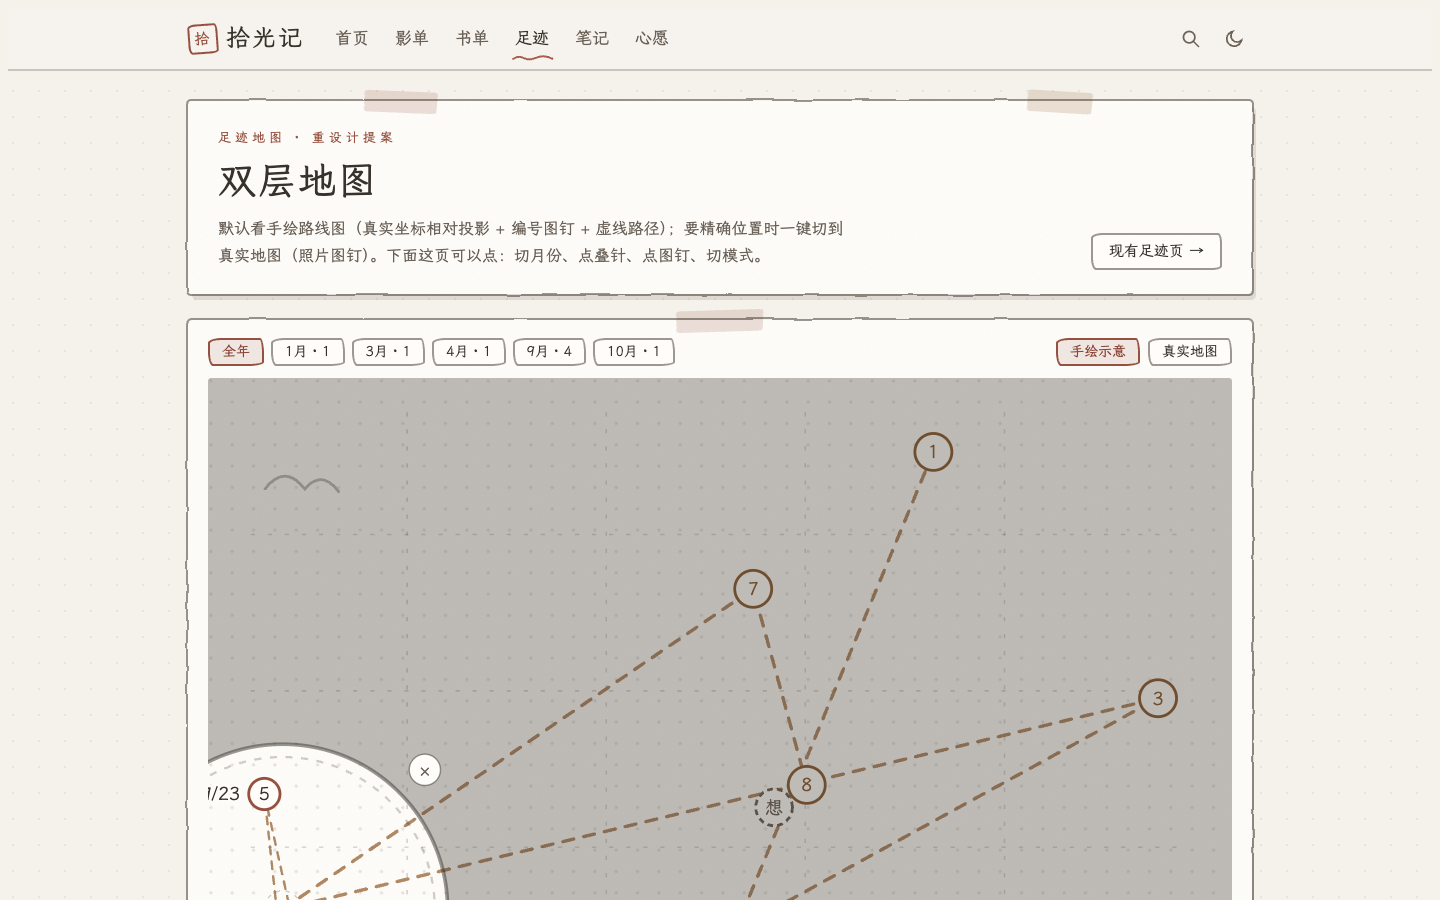
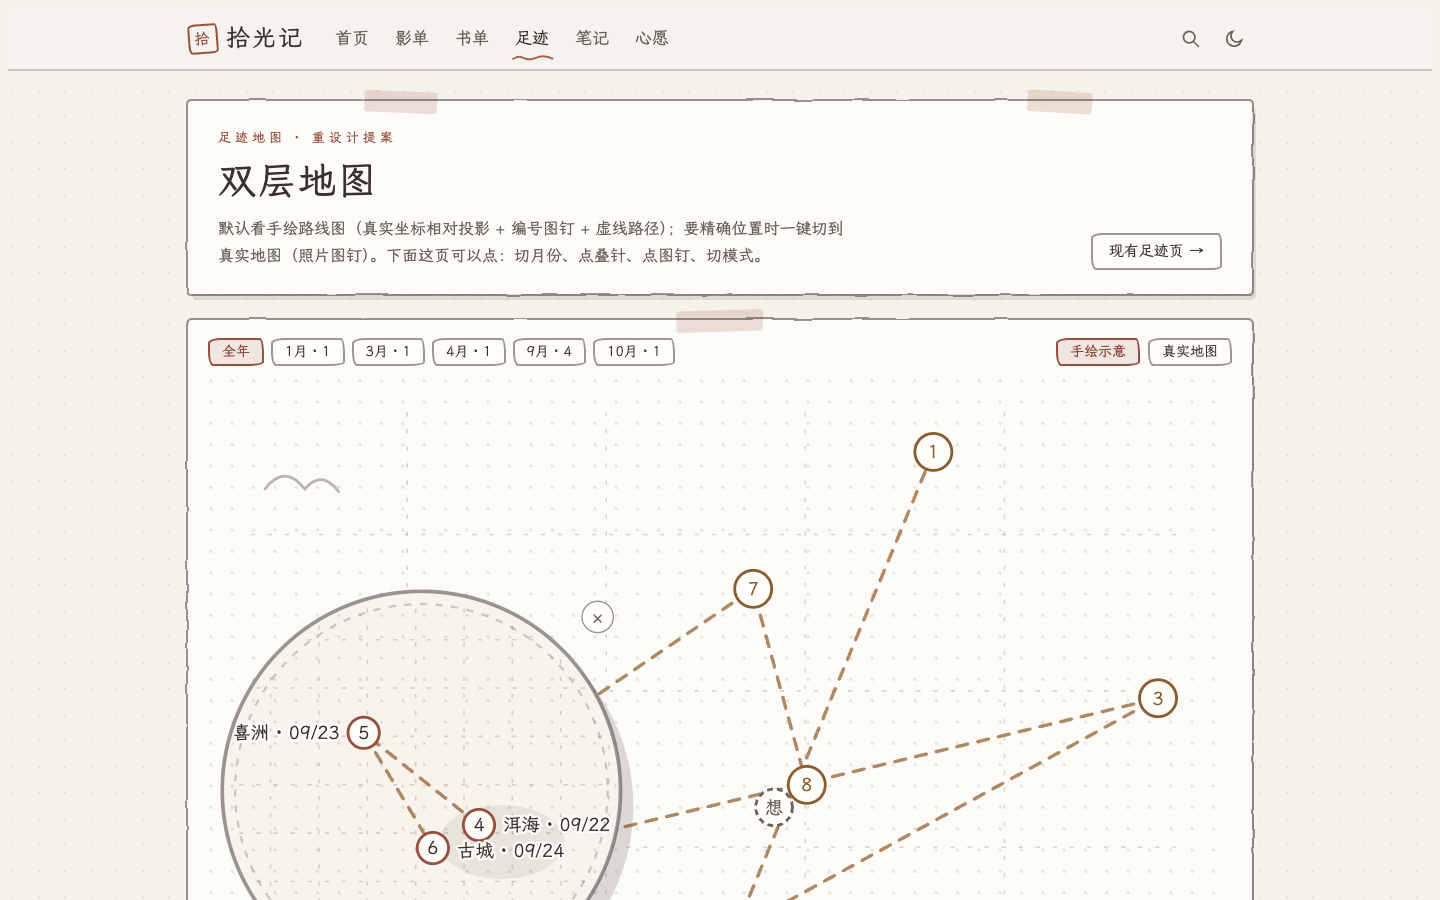
docs(handdrawn): 放大镜改为玻璃镜片压叠 + 镜内局部小地图
- 原图一切不动；一枚更大的玻璃镜片压在叠针上，不透明底 + 投影盖住那一坨
- 镜内是一张新的局部手绘小地图：视口 = 簇内点经纬度包围盒（留 32% 余量），
  两轴撑满内接方形的范围视图，三点自然展开；标注实际跨度 km 与「非等比」
- 镜片带手柄与镜环；被画布边界推离簇时补虚线指引；点镜外或 × 复原
- 点名含「海/湖/江/河」的点旁画水色装饰

diff --git a/docs/design/mockups/handdrawn-0.0.6/travel-map.html b/docs/design/mockups/handdrawn-0.0.6/travel-map.html
@@ -66,7 +66,10 @@
   paint-order: stroke; stroke: var(--hd-paper); stroke-width: 3.5px; cursor: pointer;
 }
 .page-mapdoc .lens-label:hover { fill: var(--hd-red) }
-.page-mapdoc .lens-scale { fill: var(--hd-ink-faint); font-size: 12px; font-family: var(--hd-hand) }
+.page-mapdoc .lens-scale { fill: var(--hd-ink-faint); font-size: 12.5px; font-family: var(--hd-hand) }
+.page-mapdoc .lens-handle { stroke: var(--hd-line); stroke-width: 8; stroke-linecap: round }
+.page-mapdoc .lens-handle-in { stroke: var(--hd-paper); stroke-width: 2.6; stroke-linecap: round }
+.page-mapdoc .lens-leader { stroke: var(--hd-line-soft); stroke-width: 1.8; stroke-dasharray: 4 5; fill: none }
 
 /* 真实地图模式（伪高德：浅灰路网 + 照片图钉） */
 .page-mapdoc .real-map {
@@ -249,7 +252,7 @@
         <tr><td class="k">投影</td><td>等距圆柱<b>相对投影</b>：把全部足迹的经纬度包围盒映射到纸面（国内外地点通吃），保持方位关系；页角常驻「示意位置 · 非比例」。投影框按<b>全部足迹</b>计算，月份筛选不改变它。</td></tr>
         <tr><td class="k">防重叠 · 位移</td><td>图钉最小间距 52px；力导向互斥微位移，单针位移上限 26px——只「挪半步」，方位感不破坏。</td></tr>
         <tr><td class="k">防重叠 · 聚合</td><td>位移后仍 &lt;30px（同城多点）→ 合成<b>叠针</b>（三针叠放 + 数量角标），停在真实位置；不去伪造间隔。</td></tr>
-        <tr><td class="k">放大镜</td><td>点叠针 → 叠针隐藏，半径 116px 圆窗内<b>把底图以簇心放大 K 倍</b>（同一张纸、比例尺真的变大），簇内点按真实相对位置展开；K 自适应（6–34×）；均匀倍率仍展不开 → 保留方位角的径向归一展开；同坐标 → 纸片列表兜底。</td></tr>
+        <tr><td class="k">放大镜</td><td>点叠针 → 一枚更大的玻璃镜片<b>压在那一坨上</b>：原图一切不动，镜片不透明底盖住叠针，镜内是一张<b>新的局部手绘小地图</b>（视口 = 簇内点经纬度包围盒，留 32% 余量，窄轴拉伸撑满内接方形的范围视图），三点自然展开，标注实际跨度 km 与「非等比」；镜片被画布边界推离簇时补一条虚线指引；同坐标 → 纸片列表兜底；点镜外或 × 复原。</td></tr>
         <tr><td class="k">月份口径</td><td>按 finishDate 归月；胶囊只列<b>有足迹的月份</b>并带数量（空月不出现）；默认「全年」；切换只重画路径与图钉。</td></tr>
         <tr><td class="k">路径</td><td>选中范围内按日期升序串联成虚线路径；仅 1 个点不画线；<b>想去不进路径</b>。</td></tr>
         <tr><td class="k">想去</td><td>虚线图钉常显，不受月份筛选影响；点开是想去态详情（可定日子）。</td></tr>
@@ -437,55 +440,74 @@ function drawHand() {
   });
 }
 
-/* 放大镜：真放大——叠针隐藏，圆窗内把底图以簇心放大 K 倍（<use> + scale + clip），
-   簇内点按真实相对位置展开；K 自适应（最小间距不达标时退化为「方位归一」径向展开） */
+/* 放大镜：一枚大玻璃镜片压在叠针上——原图一切不动；镜片不透明底盖住那一坨，
+   里面是一张新的局部手绘小地图（视口 = 簇内点的经纬度包围盒），三点自然展开 */
 function openLens(G, cx, cy) {
-  var R = 116;
+  var R = 140;
   var members = G.items.slice().sort(function (a, b) { return (a.d || '').localeCompare(b.d || ''); });
-  var maxD = 1;
-  members.forEach(function (p) { maxD = Math.max(maxD, Math.hypot(p.x - cx, p.y - cy)); });
-  var K = Math.min(34, Math.max(6, (R - 34) / maxD));
-  /* 均匀倍率下最小点对仍 <30px → 方位归一：保留真实方位角，径向归一到环上 */
-  var radial = false;
-  for (var i = 0; i < members.length && !radial; i++) {
-    for (var j = i + 1; j < members.length; j++) {
-      if (Math.hypot(members[i].x - members[j].x, members[i].y - members[j].y) * K < 24) { radial = true; break; }
-    }
+
+  /* 玻璃中心：尽量压住簇，但不许出了地图画布 */
+  var gx = Math.min(Math.max(cx, R + 10), VB.w - R - 10);
+  var gy = Math.min(Math.max(cy, R + 10), VB.h - R - 10);
+
+  /* 局部地图视口 = 簇内经纬度包围盒（留 32% 余量），两轴各自撑满圆的内接方形
+     （范围视图：窄轴会拉伸，标注「非等比」与实际范围公里数） */
+  var lngs = members.map(function (p) { return p.lng; }), lats = members.map(function (p) { return p.lat; });
+  var bx0 = Math.min.apply(null, lngs), bx1 = Math.max.apply(null, lngs);
+  var by0 = Math.min.apply(null, lats), by1 = Math.max.apply(null, lats);
+  var bcx = (bx0 + bx1) / 2, bcy = (by0 + by1) / 2;
+  var bw = Math.max(bx1 - bx0, 0.008) * 1.64, bh = Math.max(by1 - by0, 0.008) * 1.64;
+  var HALF = (R - 46) * 0.707; /* 内接方形半边 */
+  function localXY(p) {
+    return { x: gx + (p.lng - bcx) / (bw / 2) * HALF, y: gy - (p.lat - bcy) / (bh / 2) * HALF };
   }
-  function lensXY(p) {
-    if (!radial) return { x: cx + (p.x - cx) * K, y: cy + (p.y - cy) * K };
-    var dx = p.x - cx, dy = p.y - cy, d = Math.hypot(dx, dy) || .001;
-    var r = (R - 46) * (0.45 + 0.55 * d / maxD);
-    return { x: cx + dx / d * r, y: cy + dy / d * r };
-  }
+
+  /* 实际范围（km）：纬度 1°≈111km，经度 1°≈111×cos(纬度) */
+  var kmW = (bx1 - bx0) * 111 * Math.cos(bcy * Math.PI / 180);
+  var kmH = (by1 - by0) * 111;
+  var km = Math.round(Math.max(kmW, kmH, 0.5));
 
   var lens = el('g', {}, handMap);
-  var hole = 'M0 0 H' + VB.w + ' V' + VB.h + ' H0 Z M' + cx + ' ' + cy + ' m-' + R + ' 0 a' + R + ' ' + R + ' 0 1 0 ' + R * 2 + ' 0 a' + R + ' ' + R + ' 0 1 0 -' + R * 2 + ' 0 Z';
-  el('path', { d: hole, fill: 'rgba(55,50,44,.32)', 'fill-rule': 'evenodd' }, lens);
 
-  /* 圆窗内：同一张底图放大 K 倍（radial 兜底时不放大底图，只重排点） */
-  var cp = el('clipPath', { id: 'md-lensclip' }, window._mdDefs);
-  el('circle', { cx: cx, cy: cy, r: R }, cp);
-  var clipped = el('g', { 'clip-path': 'url(#md-lensclip)' }, lens);
-  if (!radial) {
-    var zoom = el('g', { transform: 'translate(' + cx + ' ' + cy + ') scale(' + K + ') translate(-' + cx + ' -' + cy + ')' }, clipped);
-    el('use', { href: '#md-basemap' }, zoom);
-    if (members.length > 1) {
-      el('path', { class: 'map-route', d: 'M' + members.map(function (p) { return p.x + ',' + p.y; }).join(' L'), 'vector-effect': 'non-scaling-stroke' }, zoom);
-    }
-  } else {
-    el('use', { href: '#md-basemap' }, clipped);
+  /* 若玻璃被画布边界推离了簇，画一条虚线把两者连起来 */
+  if (Math.hypot(gx - cx, gy - cy) > 30) {
+    var a = Math.atan2(cy - gy, cx - gx);
+    el('path', { class: 'lens-leader', d: 'M' + (gx + Math.cos(a) * (R + 4)) + ' ' + (gy + Math.sin(a) * (R + 4)) + ' L' + cx + ' ' + cy }, lens);
   }
 
-  /* 簇内点：按展开后的坐标摆编号针（不随底图缩放，保持针的大小可读） */
+  /* 投影 + 影子 + 不透明玻璃底：把那一坨盖住 */
+  el('circle', { cx: gx + 9, cy: gy + 11, r: R, fill: 'rgba(40,34,28,.16)' }, lens);
+  el('circle', { cx: gx, cy: gy, r: R, fill: 'var(--hd-paper-2)' }, lens);
+
+  /* 镜内：新的局部手绘小地图 */
+  var clipId = 'md-lens' + Date.now();
+  var cp = el('clipPath', { id: clipId }, window._mdDefs);
+  el('circle', { cx: gx, cy: gy, r: R - 3 }, cp);
+  var con = el('g', { 'clip-path': 'url(#' + clipId + ')' }, lens);
+  el('rect', { x: gx - R, y: gy - R, width: R * 2, height: R * 2, fill: 'url(#mdots)', 'fill-opacity': .55 }, con);
+  var grid = el('g', { class: 'map-grid' }, con);
+  for (var gx2 = gx - R + 34; gx2 < gx + R; gx2 += 34) { el('path', { d: 'M' + gx2 + ' ' + (gy - R) + ' V' + (gy + R) }, grid); }
+  for (var gy2 = gy - R + 34; gy2 < gy + R; gy2 += 34) { el('path', { d: 'M' + (gx - R) + ' ' + gy2 + ' H' + (gx + R) }, grid); }
+  /* 装饰：点名带「海/湖/江/河」的点旁画水，角上画山 */
+  members.forEach(function (p) {
+    if (!/[海湖江河]/.test(p.t)) return;
+    var pos = localXY(p);
+    el('ellipse', { cx: pos.x + 16, cy: pos.y + 12, rx: 44, ry: 26, fill: 'var(--hd-moss-soft)', opacity: .8 }, con);
+  });
+  el('path', { class: 'deco', d: 'M' + (gx - R + 26) + ' ' + (gy + R - 40) + ' q12 -16 24 0 q10 -12 20 2' }, con);
+  /* 镜内路径：按日期串联 */
+  if (members.length > 1) {
+    el('path', { class: 'map-route', d: 'M' + members.map(function (p) { var q = localXY(p); return q.x + ',' + q.y; }).join(' L') }, con);
+  }
+
+  /* 编号针 + 标签（同侧纵向避让） */
   var order = {};
   PLACES.filter(function (p) { return !p.wish; }).sort(function (a, b) { return (a.d || '').localeCompare(b.d || ''); })
     .forEach(function (p, i) { order[p.id] = i + 1; });
   var labeled = members.map(function (p) {
-    var pos = lensXY(p);
-    return { p: p, x: pos.x, y: pos.y, side: pos.x < cx ? -1 : 1 };
+    var pos = localXY(p);
+    return { p: p, x: pos.x, y: pos.y, side: pos.x < gx ? -1 : 1 };
   });
-  /* 同侧标签纵向避让：按 y 排序后推开 ≥18px */
   [-1, 1].forEach(function (side) {
     var col = labeled.filter(function (L) { return L.side === side; }).sort(function (a, b) { return a.y - b.y; });
     col.forEach(function (L, i) {
@@ -493,30 +515,34 @@ function openLens(G, cx, cy) {
     });
   });
   labeled.forEach(function (L) {
-    var g = el('g', { class: 'lens-pin', transform: 'translate(' + L.x + ',' + L.y + ')' }, lens);
+    var g = el('g', { class: 'lens-pin', transform: 'translate(' + L.x + ',' + L.y + ')' }, con);
     el('circle', { r: 11 }, g);
     var t = el('text', { y: 4, 'text-anchor': 'middle' }, g);
     t.textContent = order[L.p.id];
-    var lb = el('text', { class: 'lens-label', x: L.x + 17 * L.side, y: (L.ly === undefined ? L.y : L.ly) + 4.5, 'text-anchor': L.side < 0 ? 'end' : 'start' }, lens);
+    var lb = el('text', { class: 'lens-label', x: L.x + 17 * L.side, y: L.ly + 4.5, 'text-anchor': L.side < 0 ? 'end' : 'start' }, con);
     lb.textContent = L.p.t + ' · ' + (L.p.d || '').slice(5).replace('-', '/');
     function open(e) { e.stopPropagation(); openDrawer(L.p); }
     g.addEventListener('click', open); lb.addEventListener('click', open);
   });
 
-  /* 原来那一坨的脚印 + 倍率标注 */
-  el('circle', { cx: cx, cy: cy, r: 13, fill: 'none', stroke: 'var(--hd-line-soft)', 'stroke-dasharray': '3 4' }, lens);
-  var sc = el('text', { class: 'lens-scale', x: cx, y: cy + (R - 18), 'text-anchor': 'middle' }, lens);
-  sc.textContent = radial ? '方位展开 · 距离归一' : '× ' + Math.round(K) + ' 放大';
-
-  el('circle', { class: 'lens-frame', cx: cx, cy: cy, r: R }, lens);
-  el('circle', { class: 'lens-frame2', cx: cx, cy: cy, r: R - 9 }, lens);
-  var close = el('g', { transform: 'translate(' + (cx + R - 16) + ',' + (cy - R + 18) + ')', style: 'cursor:pointer' }, lens);
+  /* 镜环 + 手柄 + 标注 + 关闭 */
+  el('circle', { class: 'lens-frame', cx: gx, cy: gy, r: R }, lens);
+  el('circle', { class: 'lens-frame2', cx: gx, cy: gy, r: R - 9 }, lens);
+  var ha = 0.66;
+  el('path', { class: 'lens-handle', d: 'M' + (gx + Math.cos(ha) * (R + 2)) + ' ' + (gy + Math.sin(ha) * (R + 2)) + ' L' + (gx + Math.cos(ha) * (R + 58)) + ' ' + (gy + Math.sin(ha) * (R + 58)) }, lens);
+  el('path', { class: 'lens-handle-in', d: 'M' + (gx + Math.cos(ha) * (R + 6)) + ' ' + (gy + Math.sin(ha) * (R + 6)) + ' L' + (gx + Math.cos(ha) * (R + 54)) + ' ' + (gy + Math.sin(ha) * (R + 54)) }, lens);
+  var sc = el('text', { class: 'lens-scale', x: gx, y: gy + R - 14, 'text-anchor': 'middle' }, lens);
+  sc.textContent = '局部 · ' + (members[0].city || '') + '周边 · 跨度约 ' + km + ' km · 非等比';
+  var close = el('g', { transform: 'translate(' + (gx + R - 16) + ',' + (gy - R + 18) + ')', style: 'cursor:pointer' }, lens);
   el('circle', { r: 11, fill: 'var(--hd-paper)', stroke: 'var(--hd-line)' }, close);
   var xt = el('text', { y: 4, 'text-anchor': 'middle', fill: 'var(--hd-ink-soft)', 'font-size': 12 }, close);
   xt.textContent = '×';
 
-  G.node.style.display = 'none';
-  lens.addEventListener('click', function () { lens.remove(); cp.remove(); G.node.style.display = ''; });
+  function closeLens() { lens.remove(); cp.remove(); handMap.removeEventListener('click', outside, true); }
+  function outside(e) { if (!lens.contains(e.target)) closeLens(); }
+  close.addEventListener('click', function (e) { e.stopPropagation(); closeLens(); });
+  lens.addEventListener('click', function (e) { e.stopPropagation(); });
+  handMap.addEventListener('click', outside, true);
 }
 
 /* ===== 真实地图模式（伪高德演示） ===== */
